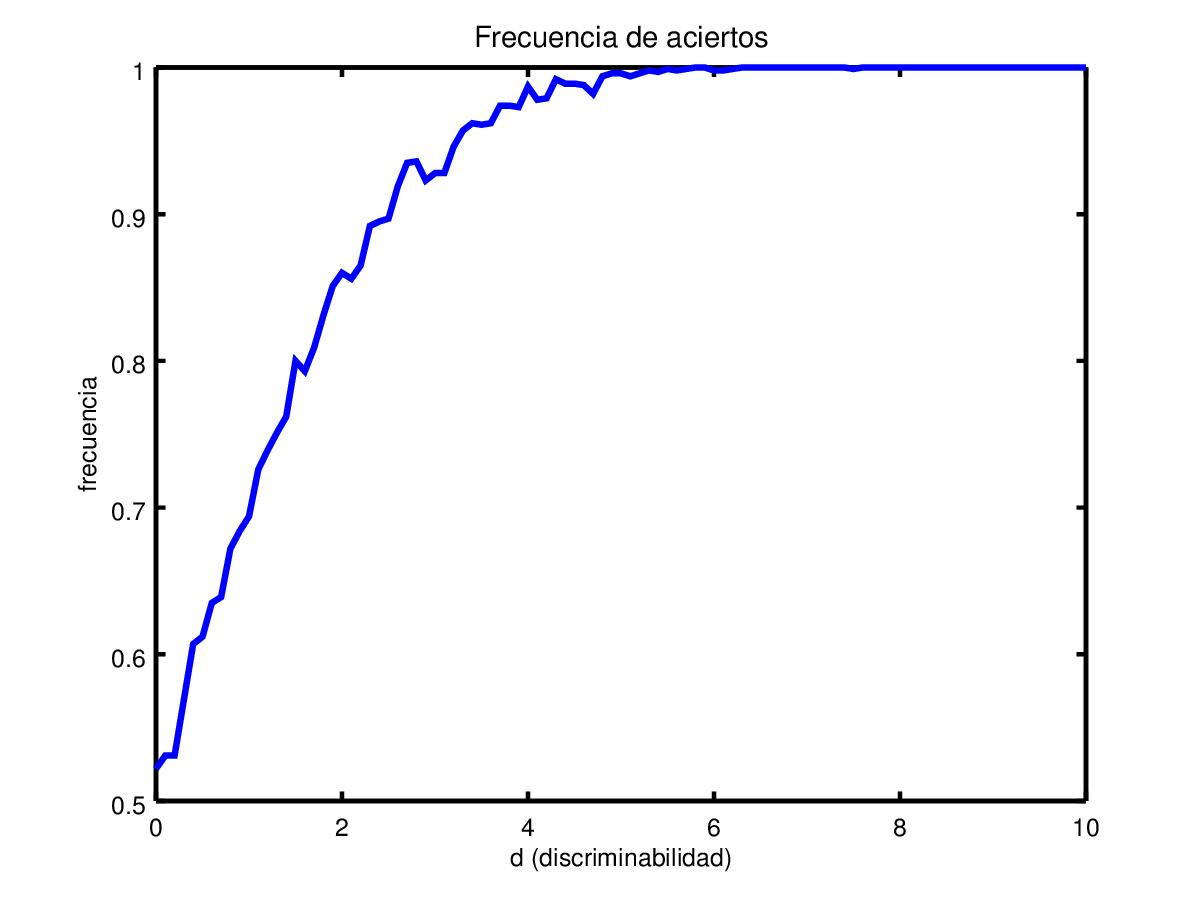
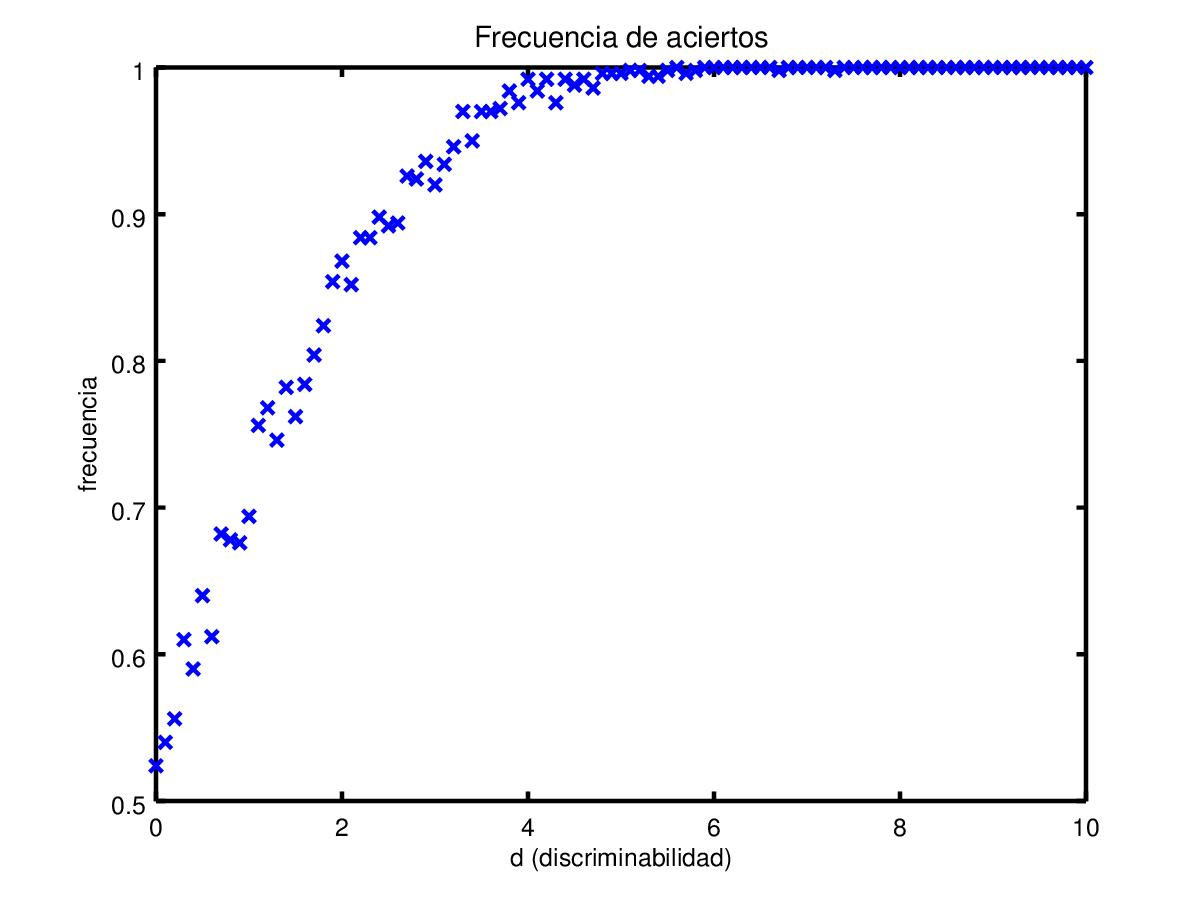
fano + ej6

Changed region(s): [[0.2158, 0.0622, 0.925, 0.5289], [0.1233, 0.6533, 0.185, 0.8711], [0.185, 0.5289, 0.2158, 0.6533]]

diff --git a/ej1/ej1.m b/ej1/ej1.m
@@ -1,15 +1,25 @@
-function [var_coef,fano_fact] = ej1()
+function [var_coef,fano_fact,fano_points,var_coef_points] = ej1()
     [X, ws] = spike_generator(1000, 10);
     intervals = get_intervals(ws, 1);
     var_coef = std(intervals) / mean(intervals);
     fano_fact = zeros(100,1);
+    fano_points = zeros(100,2);
     for i = [1:100]
         dt = i * 1.0 / 1000;
         recount = spike_recount(ws, 10, dt);
-        fano_fact(i) = var(recount) / mean(recount);
+	fano_points(i,1) = var(recount);
+	fano_points(i,2) = mean(recount);
+        fano_fact(i) = fano_points(i,1) / fano_points(i,2);
     end
+
+	var_coef_points(1) = std(intervals);
+	var_coef_points(2) = mean(intervals);
     fano_fact;
-    hist(intervals);
-    title('Histograma de longitud de intervalos entre disparos','fontsize',14);
-    xlabel('tiempo (s)','fontsize',12);
+    
+    %hist(intervals);
+    %title('Histograma de longitud de intervalos entre disparos','fontsize',14);
+    %xlabel('tiempo (s)','fontsize',12);
+    
+
+
 end

diff --git a/ej4/ej4.m b/ej4/ej4.m
@@ -1,17 +1,16 @@
-function r_est = ej4()
+function [r_est D] = ej4()
 	load c1p8.mat
 	r = sum(rho)/(length(rho) * 2);
-	s = var(stim)*2;
-	means = fliplr(mean_stim(rho,stim,300,2));
-	D = (r/s) * means;
+	s = var(stim);
+	C = mean_stim(rho,stim,300,2);
+	D = (r/s) * C;
 	r_est = zeros(length(stim) - 150,1);
-	r0 = r;
+	stim = stim .- mean(stim);
+	r0 = 0;
 	D = underZero(D);
-	stim = underZero(stim);
-	for t = 151 : length(stim)
-		stims = fliplr(stim(t - 150 : t ));
-		r_est(t - 150) = r0 + D * stims;
+	for t = 1 : length(stim) - 150
+		stims = stim(t:t+150);
+		r_est(t) = r0 + D * stims;
 	end
-
-	plot(r_est);
+	
 end

diff --git a/ej1/plot_fano.m b/ej1/plot_fano.m
@@ -1,0 +1,18 @@
+function plot_fano(points,fn)
+	if(strcmp(fn,'fano'))
+		plot_points(points,'Factor de Fano','varianza','media');
+	else
+		if(strcmp(fn,'coef'))
+			plot_points(points,'Coeficiente de variacion','desvio','media');
+		end
+	end
+
+end
+
+function plot_points(points,t,x,y)
+	%p = max(max(points));
+	plot(points(:,1),points(:,2),'x',0.009:0.001:0.011,0.009:0.001:0.011,'linewidth',2);
+	title(t,'fontsize',14);
+	xlabel(x,'fontsize',12);
+	ylabel(y,'fontsize',12);
+end

diff --git a/ej6/plot_ajuste.m b/ej6/plot_ajuste.m
@@ -1,0 +1,11 @@
+function plot_ajuste(neuron,stim)
+	neuron_mean = mean(neuron);
+	neuron_max = get_max(neuron_mean);
+	neuron_aprox = aprox_cos(0:360,neuron_mean,neuron_max(1),stim(neuron_max(2)));
+	plot(stim,neuron_mean,'x','linewidth',2,0:360,neuron_aprox);
+	title('Curva de Ajuste');
+	xlabel('stim (grados)');
+	ylabel('tasa de disparo media (Hz)');
+	set(gca, 'linewidth', 3, 'fontsize', 12);
+	axis([0,360]);
+end

diff --git a/ej3/ej3.m b/ej3/ej3.m
@@ -5,7 +5,7 @@ function ej3()
 	mean_stims = mean_stim(rho, stim, dt, sample_frec);
 	times = -1 * [0 : sample_frec : dt];
 	times = fliplr(times);
-	plot(times,mean_stims,'linewidth',3);
+	plot(times,mean_stims,'x','linewidth',1);
     title('Media de estimulos','fontsize',14);
     xlabel('tiempo (ms)','fontsize',12);
     ylabel('estimulo','fontsize',12);

diff --git a/ej6/aprox_cos.m b/ej6/aprox_cos.m
@@ -1,8 +1,8 @@
 function y = aprox_cos(stim, x, rmax, p)
 
-    y = zeros(1, length(x));
-    for i = 1 : length(x)
-        cos_result = cosd(stim(i) - stim(p));
+    y = zeros(1, length(stim));
+    for i = 1 : length(stim)
+        cos_result = cosd(stim(i) - p);
         if(cos_result < 0)
             cos_result = 0;
         end

diff --git a/ej6/find_poiss.m b/ej6/find_poiss.m
@@ -1,0 +1,12 @@
+function find_poiss(neuron)
+	means = mean(neuron); 
+	vars = var(neuron);
+	i = find(means);
+	plot(means(i),vars(i),'x');
+	title('Factor de Fano','fontsize',14);
+	xlabel('media','fontsize',12);
+	ylabel('varianza','fontsize',12);
+	set(gca, 'linewidth', 3, 'fontsize', 12);
+
+
+end

diff --git a/ej4/cmpSpikes.m b/ej4/cmpSpikes.m
@@ -1,0 +1,15 @@
+function [pct nz] = cmpSpikes(simulated , real)
+	count = 0;
+	nz_count = 0;
+	for i = 1 : length(real)
+		if(simulated(i) == real(i))
+			count ++;
+			if(real(i))
+				nz_count ++;
+			end
+		end
+
+	end
+	pct = count / i;
+	nz = nz_count / length(find(real));
+end

diff --git a/ej5/ej5.m b/ej5/ej5.m
@@ -29,7 +29,7 @@ function [pct]  = ej5(experiments, D, neurons)
 		m = m + 1;
 	end
 
-	plot(D,pct,'linewidth',3);
+	plot(D,pct,'x','linewidth',2);
 	title('Frecuencia de aciertos','fontsize',14);
 	xlabel('d (discriminabilidad)','fontsize',12);
 	ylabel('frecuencia','fontsize',12);

diff --git a/ej4/mean_stim.m b/ej4/mean_stim.m
@@ -4,7 +4,7 @@ function mean_stimuli = mean_stim(rho, stim, dt, sample_frec)
 	n = sum(rho(i:end));
 	stimuli = zeros(n,i);
 
-	while i < length(rho)
+	while i <= length(rho)
 		if rho(i) == 1
 			j = i - dt/sample_frec;
 			stimuli(p,:) = stim(j:i);

diff --git a/ej4/sample_r.m b/ej4/sample_r.m
@@ -1,0 +1,9 @@
+function r_sample = sample_r(rho)
+	acum = 0;
+	r_sample = zeros(length(rho)-150,1);
+	for i = 151 : length(rho)
+		acum = sum(rho(i-150:i));
+		r_sample(i-150) = acum/300;
+	end
+
+end

diff --git a/ej4/acum_stim.m b/ej4/acum_stim.m
@@ -1,0 +1,8 @@
+function acum_stim = acum_stim(stim)
+	acum_stim = zeros(length(stim),1);
+	acum = 0;
+	for i = 1 : length(stim)
+		acum += stim(i);
+		acum_stim(i) = acum;
+	end
+end
